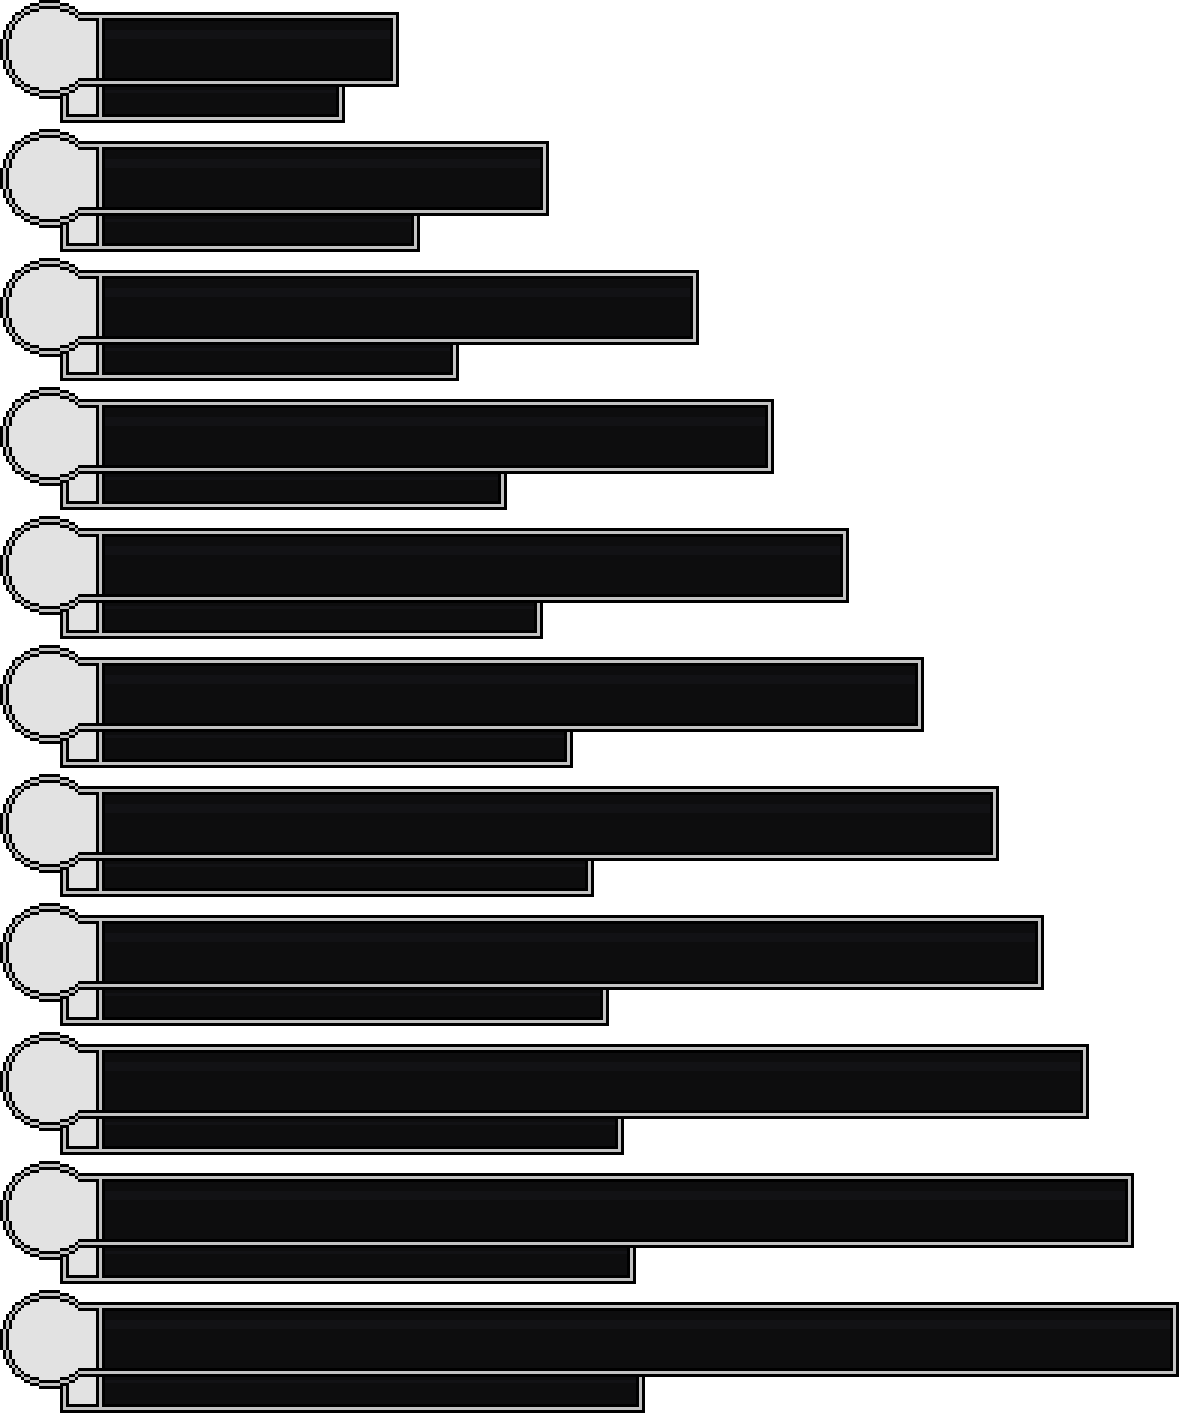
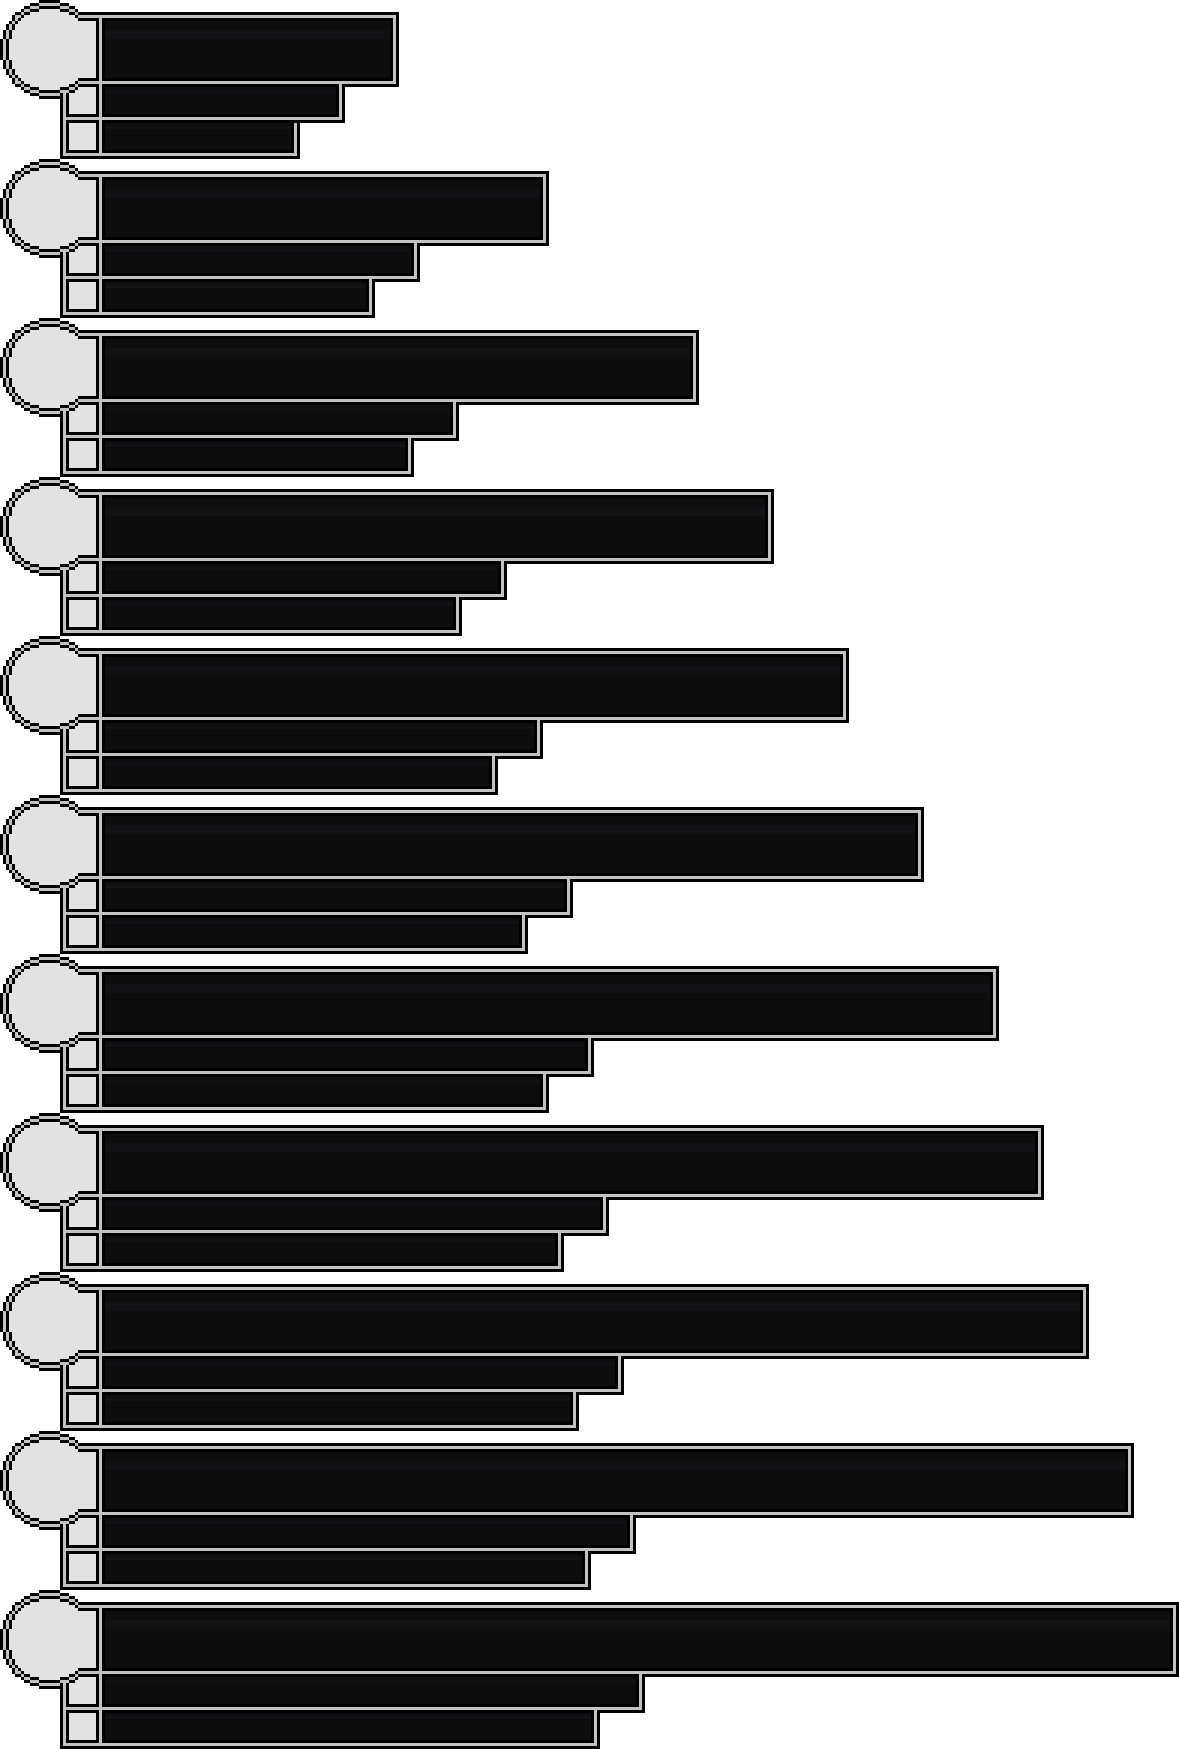
starting implementation of fullness bar

Changed region(s): [[0.0, 0.0, 1.0, 1.0]]

diff --git a/scripts/playerScripts/humanPlayer/playerWeaponFunctions.js b/scripts/playerScripts/humanPlayer/playerWeaponFunctions.js
@@ -428,50 +428,56 @@ class playerWeaponFunctions extends playerItemMaps{
 
             switch(this.playerDataObject.playerInventoryData[4].itemID) {
 
-            case (28):
+            case (28):  
+              //case to check if item use is valid.
+              if(playerHealthObject.playerCurse < playerHealthObject.playerCurseMax-1){
+                if(this.playedAttackAnimation === false){
 
-              if(this.playedAttackAnimation === false){
+                  this.playedAttackAnimation = true;
+                  //this.scene.initSoundEffect('weaponSFX','high1',0.1);
 
-                this.playedAttackAnimation = true;
-                //this.scene.initSoundEffect('weaponSFX','high1',0.1);
+                  this.playerConsumeStartAnimation();
 
-                this.playerConsumeStartAnimation();
+                  this.mainBodySprite5.anims.play("main-body-consume-start").once('animationcomplete', () => {
+                    
+                      this.fixAnimationVariable();
 
-                this.mainBodySprite5.anims.play("main-body-consume-start").once('animationcomplete', () => {
-                   
-                    this.fixAnimationVariable();
+                      //if the players curse bar would be below the max then add to the curse build up
+                      if(playerHealthObject.playerCurse + 10 < playerHealthObject.playerCurseMax){
 
-                    //if the players curse bar would be below the max then add to the curse build up
-                    if(playerHealthObject.playerCurse + 10 < playerHealthObject.playerCurseMax){
+                        healthEmitter.emit(healthEvent.curseBuildUp,10);
 
-                      healthEmitter.emit(healthEvent.curseBuildUp,10);
+                        //then remove one item off the consumable stack.
+                        inventoryKeyEmitter.emit(inventoryKey.reduceItemAmount,4,1);
 
-                      //then remove one item off the consumable stack.
-                      inventoryKeyEmitter.emit(inventoryKey.reduceItemAmount,4,1);
+                      //otherwise 
+                      }else{
 
-                    //otherwise 
-                    }else{
+                        //take the difference of the current curse amoubtr from the max. then subtract that by 1 to get the amount of curse build up to add to the player without maxing it out
+                        healthEmitter.emit(healthEvent.curseBuildUp,(playerHealthObject.playerCurseMax-playerHealthObject.playerCurse)-1);
 
-                      //take the difference of the current curse amoubtr from the max. then subtract that by 1 to get the amount of curse build up to add to the player without maxing it out
-                      healthEmitter.emit(healthEvent.curseBuildUp,(playerHealthObject.playerCurseMax-playerHealthObject.playerCurse)-1);
+                        //then remove one item off the consumable stack.
+                        inventoryKeyEmitter.emit(inventoryKey.reduceItemAmount,4,1);
 
-                      //then remove one item off the consumable stack.
-                      inventoryKeyEmitter.emit(inventoryKey.reduceItemAmount,4,1);
+                      }
 
-                    }
+                      this.playerConsumeEndAnimation();
 
-                    this.playerConsumeEndAnimation();
+                      this.mainBodySprite5.anims.play("main-body-consume-end").once('animationcomplete', () => {
 
-                    this.mainBodySprite5.anims.play("main-body-consume-end").once('animationcomplete', () => {
+                        this.isAttacking = false;
+                        this.playedAttackAnimation = false;
 
-                      this.isAttacking = false;
-                      this.playedAttackAnimation = false;
-
-                      console.log("consume is over so stoping");
-                    });
-                });
-              
+                        console.log("consume is over so stoping");
+                      });
+                  });
+                
+                } 
+              //if the player cursebar is one point below max, then do shrug instead.
+              }else{
+                this.consumeFailAnimation();
               }
+
             break;
             case (29):
             if(playerHealthObject.playerHealth !== playerHealthObject.playerMaxHealth){
@@ -497,34 +503,60 @@ class playerWeaponFunctions extends playerItemMaps{
                 
             }
             break;
+            case (29):
+            if(playerHealthObject.playerHealth !== playerHealthObject.playerMaxHealth){
+                if(this.playedAttackAnimation === false){
+                  this.playedAttackAnimation = true;
+                  this.scene.initSoundEffect('weaponSFX','medium',0.1);
+                  this.playerBonkAnimation9FPS();
+                  this.weaponLayer9.anims.play("weapon-oar").once('animationcomplete', () => {
+                    this.isAttacking = false;
+                    this.playedAttackAnimation = false;
+                    console.log("attack is over so stoping");
 
-            default:
+                    //need to heal the player,
+                    healthEmitter.emit(healthEvent.gainHealth,10);
 
-              //default case being empty means we get oftlocked
-              if(this.playedAttackAnimation === false){
+                    //then remove one item off the consumable stack.
+                    inventoryKeyEmitter.emit(inventoryKey.reduceItemAmount,4,1);
 
-                this.playedAttackAnimation = true;
-                //this.scene.initSoundEffect('weaponSFX','high1',0.1);
 
-                this.playerConsumeFailStartAnimation();
-
-                this.mainBodySprite5.anims.play("main-body-consume-fail-start").once('animationcomplete', () => {
-                   
-                    this.fixAnimationVariable();
-
-                    this.playerConsumeFailEndAnimation();
-
-                    this.mainBodySprite5.anims.play("main-body-consume-fail-end").once('animationcomplete', () => {
-
-                      this.isAttacking = false;
-                      this.playedAttackAnimation = false;
-
-                      console.log("consume is over so stoping");
-                    });
-                });
-              
-              }
+                  
+                  });
+                }
+                
             }
+            break;
+            default:
+              this.consumeFailAnimation();
+            }
+  }
+
+  consumeFailAnimation(){
+    //default case being empty means we get oftlocked
+      if(this.playedAttackAnimation === false){
+
+        this.playedAttackAnimation = true;
+        //this.scene.initSoundEffect('weaponSFX','high1',0.1);
+
+        this.playerConsumeFailStartAnimation();
+
+        this.mainBodySprite5.anims.play("main-body-consume-fail-start").once('animationcomplete', () => {
+                   
+          this.fixAnimationVariable();
+
+          this.playerConsumeFailEndAnimation();
+
+          this.mainBodySprite5.anims.play("main-body-consume-fail-end").once('animationcomplete', () => {
+
+            this.isAttacking = false;
+            this.playedAttackAnimation = false;
+
+          console.log("consume is over so stoping");
+        });
+      });
+              
+    }
   }
  
 }

diff --git a/scripts/uiScripts/hpBar.js b/scripts/uiScripts/hpBar.js
@@ -16,14 +16,15 @@ class hpBar extends Phaser.GameObjects.Container{
 
         this.scene = scene;
 
-        this.outSide = scene.add.sprite(this.x, this.y, 'healthBar');
+        this.outSide = scene.add.sprite(this.x, this.y+15, 'healthBar');
         this.outSide.setTint(0x004168);
         this.add(this.outSide);
         
-        this.face = scene.add.sprite(this.x-540, this.y, 'hpBarFace');
+        this.face = scene.add.sprite(this.x-540, this.y+15, 'hpBarFace');
         this.add(this.face);
 
-        this.curseStage = scene.add.sprite(this.x-540, this.y, 'hpBarCurseStage');
+        this.curseStage = scene.add.sprite(this.x-540, this.y+15, 'hpBarCurseStage');
+
         this.curseStage.anims.create({key: '0',frames: this.curseStage.anims.generateFrameNames('hpBarCurseStage', { start: 0, end: 0 }),frameRate: 10,repeat: -1});
         this.curseStage.anims.create({key: '1',frames: this.curseStage.anims.generateFrameNames('hpBarCurseStage', { start: 1, end: 1 }),frameRate: 10,repeat: -1});
         this.curseStage.anims.create({key: '2',frames: this.curseStage.anims.generateFrameNames('hpBarCurseStage', { start: 2, end: 2 }),frameRate: 10,repeat: -1});
@@ -75,9 +76,12 @@ class hpBar extends Phaser.GameObjects.Container{
         this.curseBarHight = startmaxHight1;
 
         this.curseBar = new Phaser.GameObjects.Graphics(scene);
+
+        this.fullnessBar = new Phaser.GameObjects.Graphics(scene);
         
         this.add(this.hpBar);
         this.add(this.curseBar);
+        this.add(this.fullnessBar);
 
         scene.add.existing(this);
         this.setScale(2/3);
@@ -176,7 +180,7 @@ class hpBar extends Phaser.GameObjects.Container{
             }
 
             //this.bar.setScale(.4);
-            this.hpBar.fillRect(-33,  407, barLength,  this.hpBarHight);
+            this.hpBar.fillRect(-33,  507, barLength,  this.hpBarHight);
             this.hpBar.x = this.outSide.x-450;
             this.hpBar.y = this.outSide.y-450;
 
@@ -232,7 +236,7 @@ class hpBar extends Phaser.GameObjects.Container{
             }
 
             //this.bar.setScale(.4);
-            this.hpBar.fillRect(-33,  407, barLength,  this.hpBarHight);
+            this.hpBar.fillRect(-33,  392, barLength,  this.hpBarHight);
             this.hpBar.x = this.outSide.x-450;
             this.hpBar.y = this.outSide.y-450;
 
@@ -250,9 +254,32 @@ class hpBar extends Phaser.GameObjects.Container{
             this.curseBar.fillStyle(0xb317ff);
 
             //this.bar.setScale(.4);
-            this.curseBar.fillRect(-33,  473, barLength,  this.curseBarHight);
+            this.curseBar.fillRect(-33,  458, barLength,  this.curseBarHight);
             this.curseBar.x = this.outSide.x-450;
             this.curseBar.y = this.outSide.y-450;
+
+            //this.bar.setScale(.4);
+            this.hpBar.fillRect(-33,  392, barLength,  this.hpBarHight);
+            this.hpBar.x = this.outSide.x-450;
+            this.hpBar.y = this.outSide.y-450;
+
+            //fullness bar update
+            this.fullnessBar.clear();
+
+            percentage = (this.playerCurse/this.playerCurseMax);
+
+            this.curseBarWidth = curseMaxWidthArr[this.scene.playerSaveSlotData.playerHealthUpgrades];
+
+            barLength = Math.floor(this.curseBarWidth * percentage);
+
+            //console.log("curse barLength: ",barLength);
+
+            this.fullnessBar.fillStyle(0xFFA500);
+
+            //this.bar.setScale(.4);
+            this.fullnessBar.fillRect(-33,  493, barLength,  this.curseBarHight);
+            this.fullnessBar.x = this.outSide.x-450;
+            this.fullnessBar.y = this.outSide.y-450;
         }
         
         

diff --git a/scripts/sceneScripts/sceneHeads/gameHud.js b/scripts/sceneScripts/sceneHeads/gameHud.js
@@ -59,9 +59,9 @@ class gameHud extends A3SoundEffects {
       this.load.spritesheet('inventorySlots', 'assets/hudElements/InventorySlots.png',{frameWidth: 96 , frameHeight: 96 });
       this.load.spritesheet('closingButton', 'assets/hudElements/closingButton.png',{frameWidth: 51, frameHeight: 51 });
 
-      this.load.spritesheet('healthBar', 'assets/hudElements/hpBar.png',{frameWidth: 1179, frameHeight: 129 });
-      this.load.spritesheet('hpBarCurseStage', 'assets/hudElements/hpBarCurseStage.png',{frameWidth: 96, frameHeight: 129 });
-      this.load.spritesheet('hpBarFace', 'assets/hudElements/hpBarFace.png',{frameWidth: 96, frameHeight: 129 });
+      this.load.spritesheet('healthBar', 'assets/hudElements/hpBar.png',{frameWidth: 1179, frameHeight: 159 });
+      this.load.spritesheet('hpBarCurseStage', 'assets/hudElements/hpBarCurseStage.png',{frameWidth: 96, frameHeight: 159 });
+      this.load.spritesheet('hpBarFace', 'assets/hudElements/hpBarFace.png',{frameWidth: 96, frameHeight: 159 });
       
       this.load.spritesheet('bossBar', 'assets/hudElements/bossBar.png',{frameWidth: 1083, frameHeight: 75});
       this.load.spritesheet('struggleBar', 'assets/hudElements/struggleBar.png',{frameWidth: 441, frameHeight: 45 });
@@ -748,7 +748,7 @@ class gameHud extends A3SoundEffects {
             //if the shop ui isnt already created.
             if(this.playerShop === null){
               //adds player storage ui
-              this.playerShop = new shop(this,this.screenWidth/2-160,250);
+              this.playerShop = new shop(this,this.screenWidth/2-160,250+25);
               //this.playerShop.applyUIControlElements();
 
               //makes a tween for the inventory object so the interior is see through
@@ -1017,7 +1017,7 @@ class gameHud extends A3SoundEffects {
           });
 
           // create inventory hub object
-          this.playerInventory = new inventory(this,130,133);
+          this.playerInventory = new inventory(this,130,145);
           
           //makes a tween for the inventory object so the interior is see through
           this.inventoryTween = this.tweens.add({
@@ -1058,7 +1058,7 @@ class gameHud extends A3SoundEffects {
           inventoryKeyEmitter.on(inventoryKey.makeStorage,() =>{
             if(this.playerStorage === null){
                         //adds player storage ui
-              this.playerStorage = new storage(this,this.screenWidth/2-160,190);
+              this.playerStorage = new storage(this,this.screenWidth/2-160,190+17);
               this.playerStorage.applyUIControlElements();
 
                 //makes a tween for the inventory object so the interior is see through

diff --git a/scripts/uiScripts/inventoryScripts/inventory.js b/scripts/uiScripts/inventoryScripts/inventory.js
@@ -7,7 +7,7 @@ class inventory extends Phaser.GameObjects.Container{
       //so here in the subclass of sprite its refering to the image object we just made. 
       scene.add.existing(this);
 
-      //connects the sprite to the camera so that it sticks with the player.
+      //connects the sprite to the camera so that it sticks with the player."inventory"
       this.setScrollFactor(0);
       this.setDepth(20);
 
@@ -83,7 +83,7 @@ class inventory extends Phaser.GameObjects.Container{
       this.add(this.inventoryBorder);
 
       //makes the label for the inventory
-      this.inventoryLabel = new makeText(scene,-90,5,'charBubble',"INVENTORY");
+      this.inventoryLabel = new makeText(scene,-90,17,'charBubble',"INVENTORY");
       this.inventoryLabel.visible = false;
       this.add(this.inventoryLabel);
 
@@ -144,7 +144,7 @@ class inventory extends Phaser.GameObjects.Container{
       this.add(this.inventoryArray[index].number2);
 
       //adding settings menu
-      this.settingsUI = new optionsMenu(scene,this,this.x+800,this.y-200);
+      this.settingsUI = new optionsMenu(scene,this,this.x+800,this.y-200+12);
       //this.add(this.settingsUI);
 
       //adds settings menu button
@@ -246,7 +246,7 @@ class inventory extends Phaser.GameObjects.Container{
       }
 
        //create text button which can be used to split a stack
-       this.split = new makeText(this.scene,200,-26,'charBubble',"SPLIT",true);
+       this.split = new makeText(this.scene,200,-26 + 12,'charBubble',"SPLIT",true);
        this.split.addHitbox();
        this.split.clicked = false;
        this.split.setScrollFactor(0);
@@ -294,7 +294,7 @@ class inventory extends Phaser.GameObjects.Container{
        },this);
        
        //create text button which can be used to split a stack
-       this.single = new makeText(this.scene,300,-26,'charBubble',"SINGLE",true);
+       this.single = new makeText(this.scene,300,-26+12,'charBubble',"SINGLE",true);
        this.single.addHitbox();
        this.single.clicked = false;
        this.single.setScrollFactor(0);
@@ -621,7 +621,7 @@ class inventory extends Phaser.GameObjects.Container{
         // applies logic to slot to display item name and description?
         let tempInventory = this;
         let descriptionX = 30;
-        let descriptionY = 740;
+        let descriptionY = 740+17;
         this.inventoryArray[counter].on('pointerover',function(pointer){
           
           //this.label.setText('(' + this.pointer.x + ', ' + this.pointer.y + ')');

diff --git a/scripts/uiScripts/shops/shop.js b/scripts/uiScripts/shops/shop.js
@@ -878,7 +878,7 @@ class shop extends Phaser.GameObjects.Container{
         // applies logic to slot to display item name and description
         let tempshop = this;
         let descriptionX = 30;
-        let descriptionY = 540;
+        let descriptionY = 540+23;
         this.shopArray[counter].on('pointerover',function(pointer){
           //this.label.setText('(' + this.pointer.x + ', ' + this.pointer.y + ')');
           scene.itemName = new makeText(scene,descriptionX,descriptionY,'charBubble',tempshop.copyDataArray[counter + tempshop.slotOffset].itemName);

diff --git a/scripts/uiScripts/storageScripts/storage.js b/scripts/uiScripts/storageScripts/storage.js
@@ -434,7 +434,7 @@ class storage extends Phaser.GameObjects.Container{
         // applies logic to slot to display item name and description
         let tempStorage = this;
         let descriptionX = 30;
-        let descriptionY = 740;
+        let descriptionY = 740+23;
 
         if(counter < 14){
           this.storageArray[counter].on('pointerover',function(pointer){
